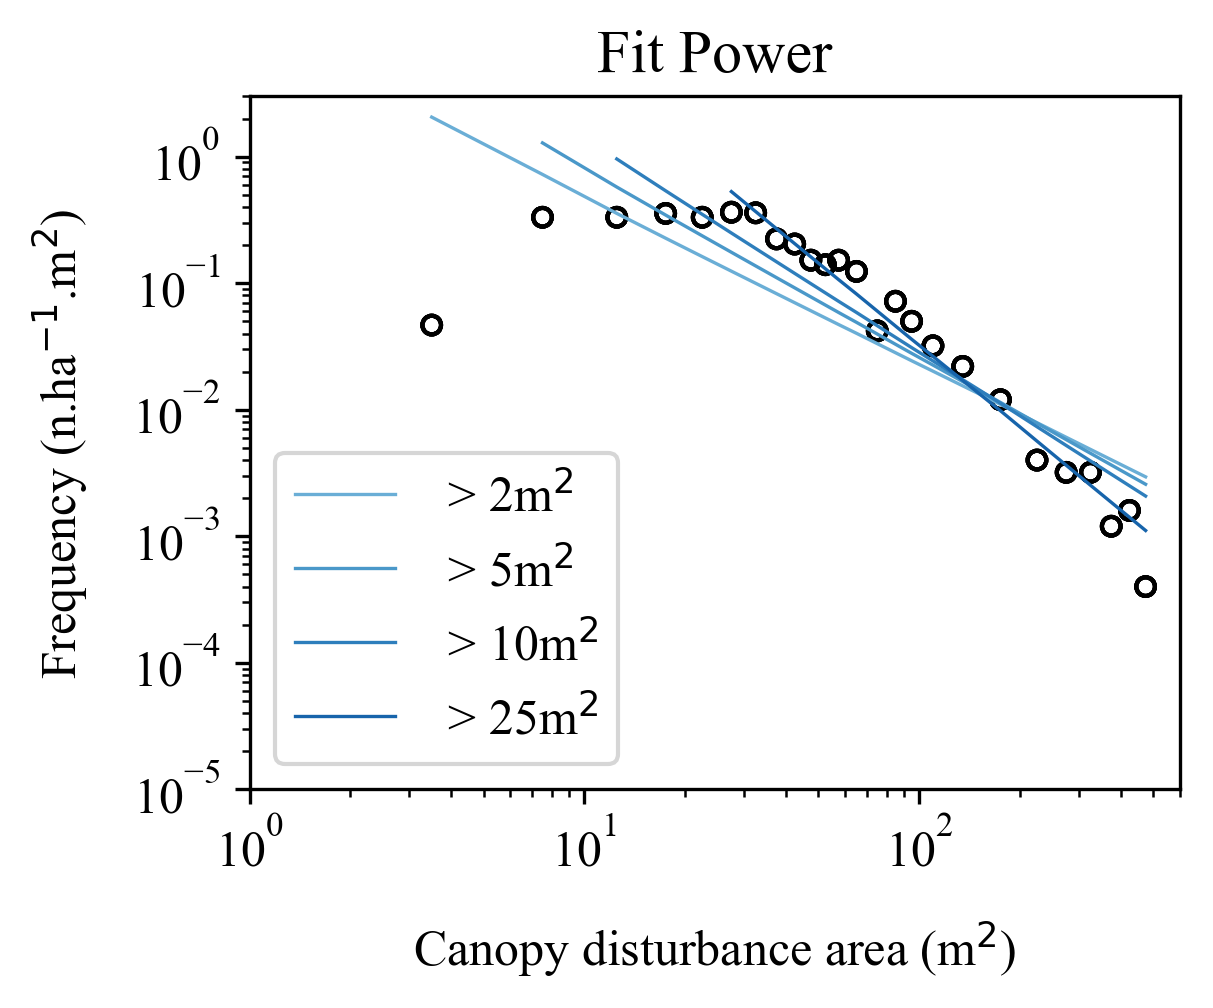
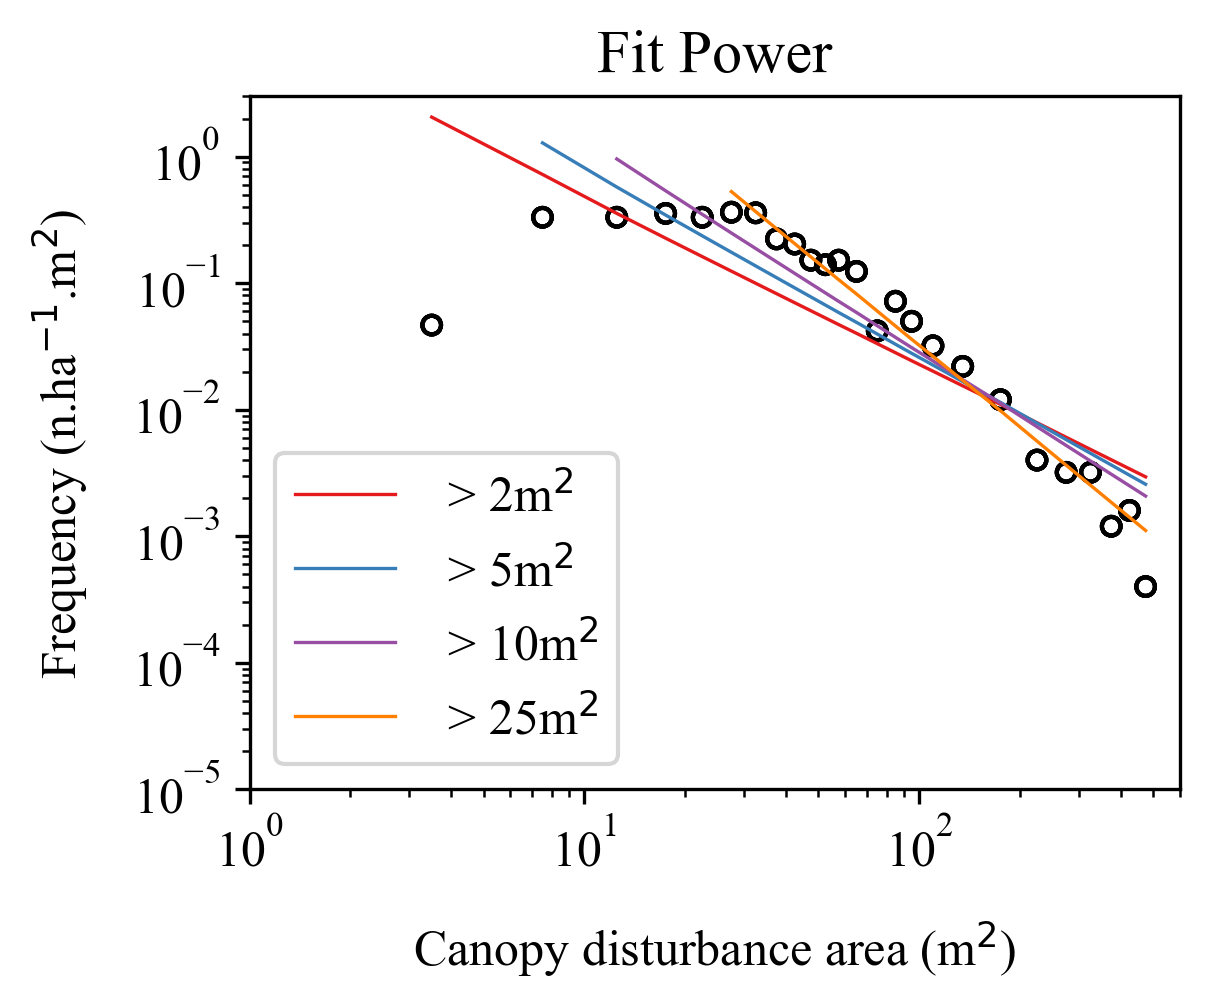
--updates

diff --git a/Stacked_bar_area_heightdrop/Scripts/gapheightstack.py b/Stacked_bar_area_heightdrop/Scripts/gapheightstack.py
@@ -50,15 +50,25 @@ freq.to_csv('../Exit/pivot_table.csv')
 freq1 = (freq/len(dropnegsel))*100
 freq1.reset_index(inplace=True)
 
+# color=['gainsboro', 'silver', 'dimgrey', 'k']
 
 plt.figure(figsize=(4, 3))
 plt.rc('font', family='Times New Roman', size=12)
 
-freq1.plot(x='classearea', kind='bar', stacked=True, color=['gainsboro', 'silver', 'dimgrey', 'k'], align='edge', rot=0, width=1.0,
+freq1.plot(x='classearea', kind='bar', stacked=True, color=['xkcd:cobalt', 'steelblue', 'khaki', 'indianred'], align='edge', rot=0, width=1.0,
             figsize=(4, 3), fontsize=12)
 plt.xlabel(r'Canopy disturbance area (m$^{2}$)', labelpad=10)
 plt.ylabel('Frequency (%)', labelpad=10, fontsize=12)
-plt.legend(['0-2 m', '2-5 m', '5-10 m', '>10 m'], title="Height drop", fontsize=10)
+
+labels = ['0-2 m', '2-5 m', '5-10 m', '>10 m']
+plt.legend(labels, title="Height drop", fontsize=10)
+
+plt.legend(reversed(plt.legend().legendHandles), reversed(labels))
+
+# handles, labels = ax.get_legend_handles_labels()
+# ax.legend(reversed(handles), reversed(labels), title='Line', loc='upper left')
+# # plt.legend(['>10 m','5-10 m','2-5 m','0-2 m'], title="Height drop", fontsize=10)
+
 plt.yticks([0,10,20,30,40], [0,10,20,30,40], fontsize=12)
 plt.xticks([0,1,2,3,4,5,6,7],['2','5','10','20','50','100', '200', '500'], fontsize=12)
 
@@ -68,56 +78,3 @@ plt.close()
 
 
 
-# # print(width)
-
-# ###Plot log scale
-# plt.figure(figsize=(4, 3))
-# plt.rc('font', family='Times New Roman', size=12)
-
-# # Heights of bars1 + bars2
-# bars = np.add(freq1['0'], freq1['2']).tolist()
-# five = freq1['5'].tolist()
-# bars1 = np.add(bars, five)
-# # print(bars)
-# # print(bars1)
-
-# ###Plot x axis log scale
-# plt.figure(figsize=(4, 3))
-# plt.rc('font', family='Times New Roman', size=12)
-
-# # Heights of bars1 + bars2
-# bars = np.add(freq1['0'], freq1['2']).tolist()
-# five = freq1['5'].tolist()
-# bars1 = np.add(bars, five)
-# # print(bars)
-# # print(bars1)
-
-# width = 1.0
-
-# print(np.array((freq1.classearea), dtype=str))
-
-
-
-# # Create brown bars
-# plt.bar(np.array((freq1.classearea), dtype=str), freq1['0'], color = 'white', edgecolor='k', width=width,align='edge', label='0-2 m')
-# # Create green bars (middle), on top of the first ones
-# plt.bar(np.array((freq1.classearea), dtype=str), freq1['2'], bottom=freq1['0'], color='lightgray', edgecolor='k', width=width, align='edge', label='2-5 m')
-# # Create green bars (top)
-# plt.bar(np.array((freq1.classearea), dtype=str), freq1['5'], bottom=bars, color='darkgray', edgecolor='k', width=width, align='edge', label='5-10 m')
-# plt.bar(np.array((freq1.classearea), dtype=str), freq1['>10'], bottom=bars1, color='k', edgecolor='k', width=width, align='edge', label='>10 m')
-
-# # plt.xscale('log')
-# # plt.yscale('log')
-
-# plt.xlabel(r'Canopy disturbance area (m$^{2}$)', labelpad=10)
-# plt.ylabel('Frequency (%)', labelpad=10)
-
-# # plt.xticks([2,5,10,20,50,100,200,500], [2,5,10,20,50,100,200,500])
-# # plt.yticks([1,10,100], [1,10,100])
-# plt.minorticks_off()
-
-# plt.legend(title="Height drop", loc='upper left', prop={'size': 8})
-
-# plt.savefig('../Exit/stackbar_area_heightdrop1_logx.png', dpi=300, bbox_inches='tight')
-
-# plt.close()

diff --git a/Size_distribution_graphs/Scripts/gapsizedistribplots.py b/Size_distribution_graphs/Scripts/gapsizedistribplots.py
@@ -123,13 +123,17 @@ while i < len(valores):
 ########################################################################################################
 ##Plot SI2
 
-listacolor = ['Greys' ,'Blues', 'Reds']
+# listacolor = ['Greys' ,'Blues', 'Reds']
+listacolor = ['Set1', 'Set1', 'Set1']
 
 colorcoletor = []
 for c in listacolor:
 
     cmap = plt.cm.get_cmap(c)
-    rgba = cmap([0.5, 0.6, 0.7, 0.8])
+    # rgba = cmap([0.5, 0.6, 0.7, 0.8])
+    rgba = cmap([0.1, 0.2, 0.4, 0.5])
+
+
     colorcoletor.append(rgba)
 
 
@@ -250,18 +254,20 @@ while i < len(valores):
     plt.loglog()
     plt.ylim(0.00001,1.1)
     plt.xlim(1.7,600)
-    plt.legend(loc='best')
+    plt.legend(loc='lower right')
     plt.xlabel(r'Canopy disturbance area (m$^{2}$)', labelpad=10)
     plt.ylabel(r'Frequency (n.ha$^{-1}$.m$^{2}$)', labelpad=10)
     plt.xticks([2,5,10,20,50,100,200,500], ['2','5','10','20','50','100','200','500'])
     # plt.yticks([0.01, 0.1, 1], [ '0.01', '0.1', '1'])
+
+    plt.axvspan(1.7, valores[i], alpha=0.2, color='gray')
     
     # plt.yticks([0.001, 0.01, 0.1, 1], ['0.001', '0.01', '0.1', '1'])
     # plt.ticklabel_format(axis='y', style='sci')
 
 
     #Proportion y
-    plt.axvline(x=valores[i], ymin=0.0001, ls='--', color='k', linewidth=0.5, zorder=1) #ymax=valoresylinha[i]
+    # plt.axvline(x=valores[i], ymin=0.0001, ls='--', color='k', linewidth=0.5, zorder=1) #ymax=valoresylinha[i]
 
 
     plt.savefig('../Exit/main_gap_size_fits_log'+nomes[i]+'.png', dpi=300, bbox_inches='tight')

diff --git a/Cumulative_distribution/Scripts/cdf.py b/Cumulative_distribution/Scripts/cdf.py
@@ -39,10 +39,10 @@ plt.figure(figsize=(4, 3))
 plt.rc('font', family='Times New Roman', size=12)
 
 
-plt.plot(x,coletorarea, "k" , label = "Area", linewidth=0.8)
-plt.plot(x,coletornum, "grey" , label = "Number", linewidth=0.8)
+plt.plot(x,coletorarea, "royalblue" , label = "Area", linewidth=0.8)
+plt.plot(x,coletornum, "tomato" , label = "Number", linewidth=0.8)
 plt.xscale('log')
-plt.legend()
+plt.legend(loc='lower right')
 
 plt.xticks([2,5,10,20,50,100,200,500],[2,5,10,20,50,100,200,500])
 plt.ylabel('Cumulative distribution (%)', labelpad=10)

diff --git a/Join_figures_sizes/Scripts/functionplots.py b/Join_figures_sizes/Scripts/functionplots.py
@@ -29,7 +29,7 @@ mpimg.imread('../Entrance/stackbar_area_heightdrop.png'),
 # mpimg.imread('../Exit/gap_number_Branchfall_bars.png'),
 # mpimg.imread('../Exit/gap_number_Treefall_bars.png'),
 ]
-abcd = ["a", "c" , "b" ,"d"]
+abcd = ["(a)", "(c)" , "(b)" ,"(d)"]
 # abcd = ["(a)", "(b)", "(c)"]
 
 fig = plt.figure(figsize=(6.5, 5.4))
